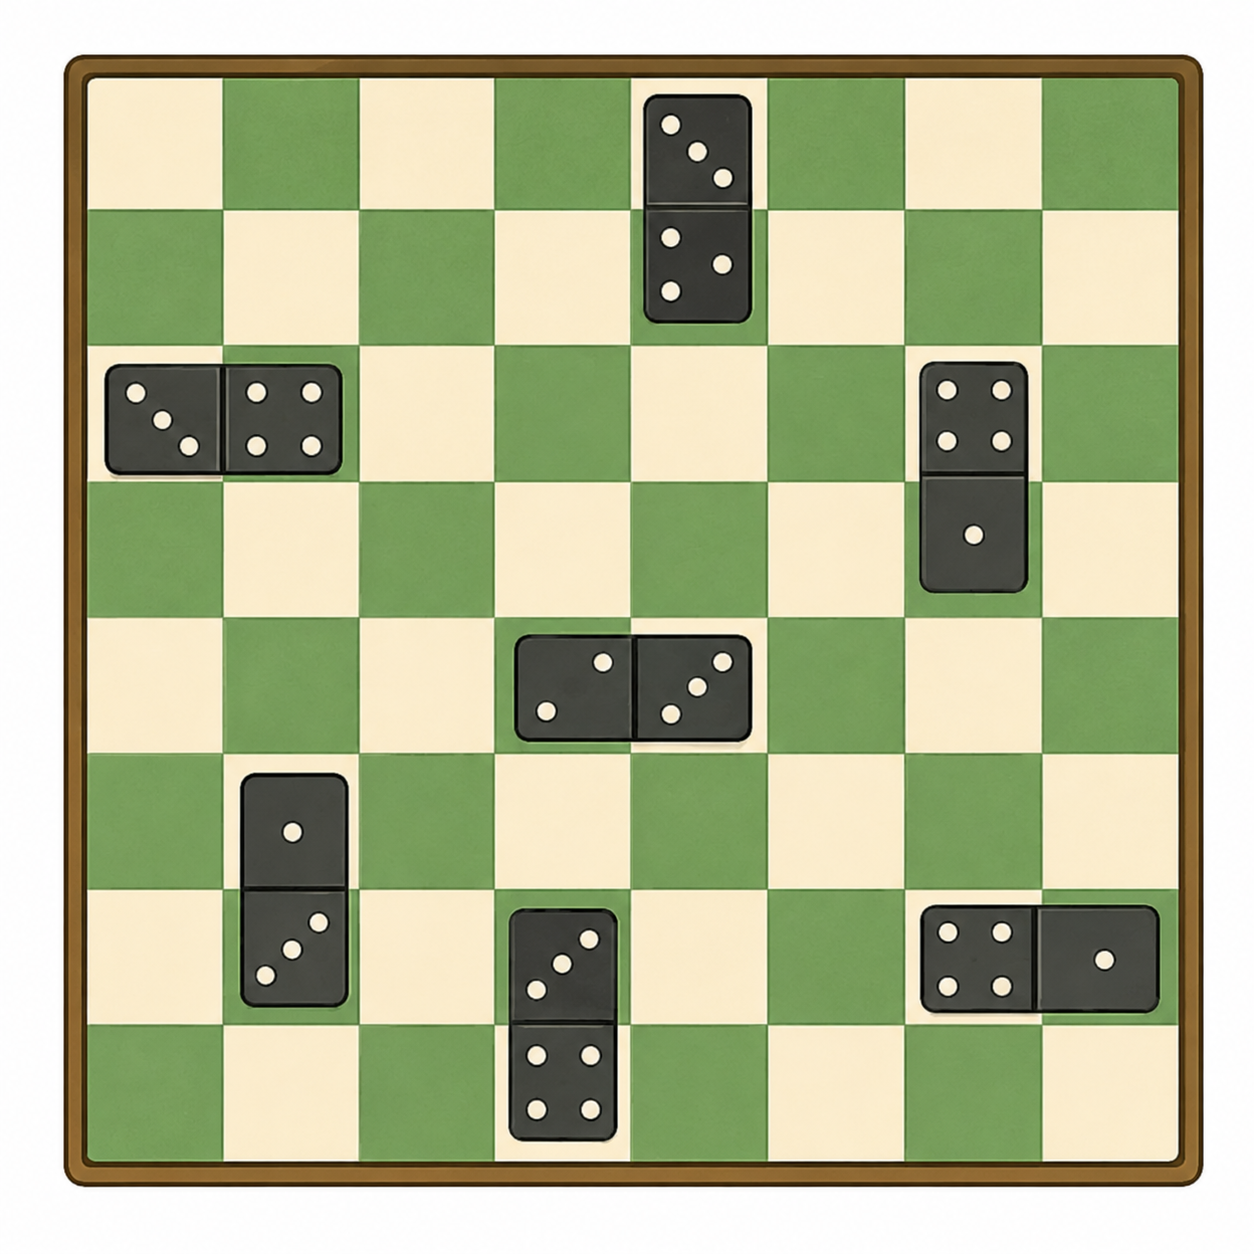
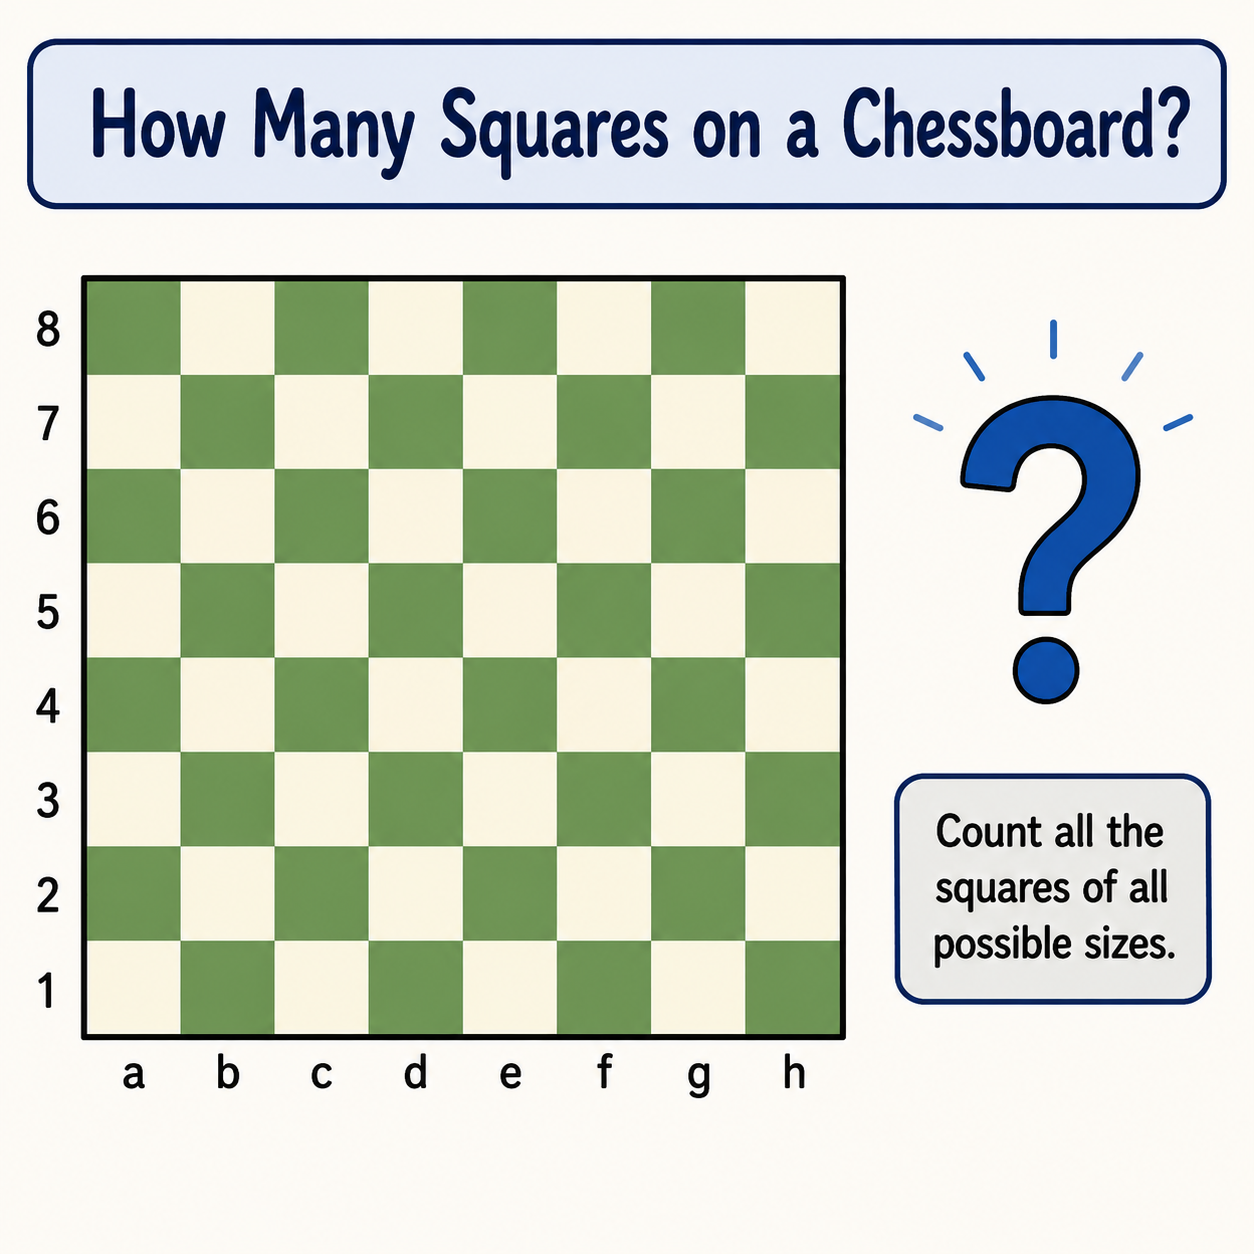
Update the puzzle route in the landing page

diff --git a/apps/web/src/components/marketing/feature-banners.tsx b/apps/web/src/components/marketing/feature-banners.tsx
@@ -14,6 +14,7 @@
  *   sheets    → a graph being traversed (BFS front lighting nodes/edges)
  *   domain    → packets traveling a small router mesh
  *   screening → a pen filling MCQ bubbles on ruled paper
+ *   puzzles   → a jigsaw piece dropping into the gap it completes
  *   interview → a video-call tile with a breathing avatar + audio waveform
  */
 import { useEffect, useRef } from "react";
@@ -1022,12 +1023,77 @@ function drawScreen(ctx: CanvasRenderingContext2D, t: number, w: number, h: numb
 }
 
 /* ---------------------------------------------------------------------- */
-export type FeatureArtKey = "sheets" | "domain" | "screening" | "interview";
+
+/* ---------------------------------------------------------------------- */
+/* Puzzles — a jigsaw piece dropping into the gap it completes.            */
+/* ---------------------------------------------------------------------- */
+function drawPuzzles(ctx: CanvasRenderingContext2D, t: number, w: number, h: number, c: Colors) {
+  backdrop(ctx, w, h, c);
+
+  // 2x2 board, centred. Three tiles are already placed; the fourth flies in.
+  const size = Math.min(w, h) * 0.5;
+  const gap = size * 0.06;
+  const tile = (size - gap) / 2;
+  const ox = (w - size) / 2;
+  const oy = (h - size) / 2;
+
+  const CYCLE = 3.4;
+  const phase = (t % CYCLE) / CYCLE;
+  // Ease the piece in over the first 55%, then hold it seated.
+  const p = phase < 0.55 ? clamp01(phase / 0.55) : 1;
+  const ease = 1 - Math.pow(1 - p, 3);
+
+  const seated: [number, number][] = [
+    [ox, oy],
+    [ox + tile + gap, oy],
+    [ox, oy + tile + gap],
+  ];
+  for (const [x, y] of seated) {
+    rr(ctx, x, y, tile, tile, tile * 0.22);
+    ctx.fillStyle = withAlpha(c.ink, 0.1);
+    ctx.fill();
+    ctx.strokeStyle = withAlpha(c.ink, 0.22);
+    ctx.lineWidth = 1;
+    ctx.stroke();
+  }
+
+  // The empty slot, so the gap reads as a gap before the piece lands.
+  const sx = ox + tile + gap;
+  const sy = oy + tile + gap;
+  rr(ctx, sx, sy, tile, tile, tile * 0.22);
+  ctx.strokeStyle = withAlpha(c.ink, 0.18);
+  ctx.setLineDash([4, 4]);
+  ctx.lineWidth = 1;
+  ctx.stroke();
+  ctx.setLineDash([]);
+
+  // The travelling piece: comes from lower-right, fades up as it seats.
+  const fx = lerp(sx + tile * 0.9, sx, ease);
+  const fy = lerp(sy + tile * 0.8, sy, ease);
+  rr(ctx, fx, fy, tile, tile, tile * 0.22);
+  ctx.fillStyle = withAlpha(c.accent, 0.18);
+  ctx.fill();
+  ctx.strokeStyle = withAlpha(c.accent, 0.55 + 0.45 * ease);
+  ctx.lineWidth = 1.8;
+  ctx.stroke();
+
+  // Knob on the seated edge — the detail that makes it read as jigsaw.
+  const kr = tile * 0.13;
+  ctx.beginPath();
+  ctx.arc(fx, fy + tile / 2, kr, 0, Math.PI * 2);
+  ctx.fillStyle = withAlpha(c.accent, 0.18);
+  ctx.fill();
+  ctx.strokeStyle = withAlpha(c.accent, 0.55 + 0.45 * ease);
+  ctx.stroke();
+}
+
+export type FeatureArtKey = "sheets" | "domain" | "screening" | "puzzles" | "interview";
 
 const DRAWS: Record<FeatureArtKey, Draw> = {
   sheets: drawSheets,
   domain: drawDomain,
   screening: drawScreening,
+  puzzles: drawPuzzles,
   interview: drawScreen,
 };
 

diff --git a/apps/web/src/components/marketing/feature-grid.tsx b/apps/web/src/components/marketing/feature-grid.tsx
@@ -14,8 +14,8 @@ type Feature = {
 };
 
 /**
- * The four tracks, shown as four equal cards in a single row on `lg` (stacking to
- * two columns on `sm` and one on mobile). DOM order is visual order.
+ * The five tracks, shown as equal cards (stacking to two columns on `sm` and one
+ * on mobile). DOM order is visual order.
  */
 const features: Feature[] = [
   {
@@ -39,6 +39,14 @@ const features: Feature[] = [
     title: "Screening",
     desc: "Quant aptitude and logical reasoning — crisp theory, then timed MCQ practice.",
     tag: "MCQ drills",
+  },
+  {
+    key: "puzzles",
+    href: "/puzzles",
+    title: "Puzzles",
+    desc: "Classic interview brainteasers — logic, weighing, parity and optimisation — each with a diagram, staged hints and a worked solution.",
+    tag: "Lateral thinking",
+    meta: "84 puzzles · 12 patterns",
   },
   {
     key: "interview",
@@ -68,7 +76,9 @@ export function FeatureGrid() {
           </p>
         </div>
 
-        <div className="grid grid-cols-1 gap-5 sm:grid-cols-2 lg:grid-cols-4">
+        {/* Five tracks, all on ONE row from `lg` up — the Container has no hard
+            max-width, so the row grows with the screen instead of capping. */}
+        <div className="grid grid-cols-1 gap-5 sm:grid-cols-2 lg:grid-cols-5">
           {features.map((f) => {
             return (
               <Link
@@ -90,7 +100,9 @@ export function FeatureGrid() {
                   </h3>
                   <p className="mt-2 max-w-[52ch] text-sm leading-relaxed text-muted">{f.desc}</p>
 
-                  <div className="mt-auto flex items-center justify-between gap-4 pt-6">
+                  {/* Wraps rather than collides: at five-across the meta text and
+                      the Explore affordance can exceed one line on a 1280px screen. */}
+                  <div className="mt-auto flex flex-wrap items-center justify-between gap-x-4 gap-y-2 pt-6">
                     {/* Inventory metadata is the depth proof — a title says
                         nothing, a count says the content exists. */}
                     {f.meta ? (
